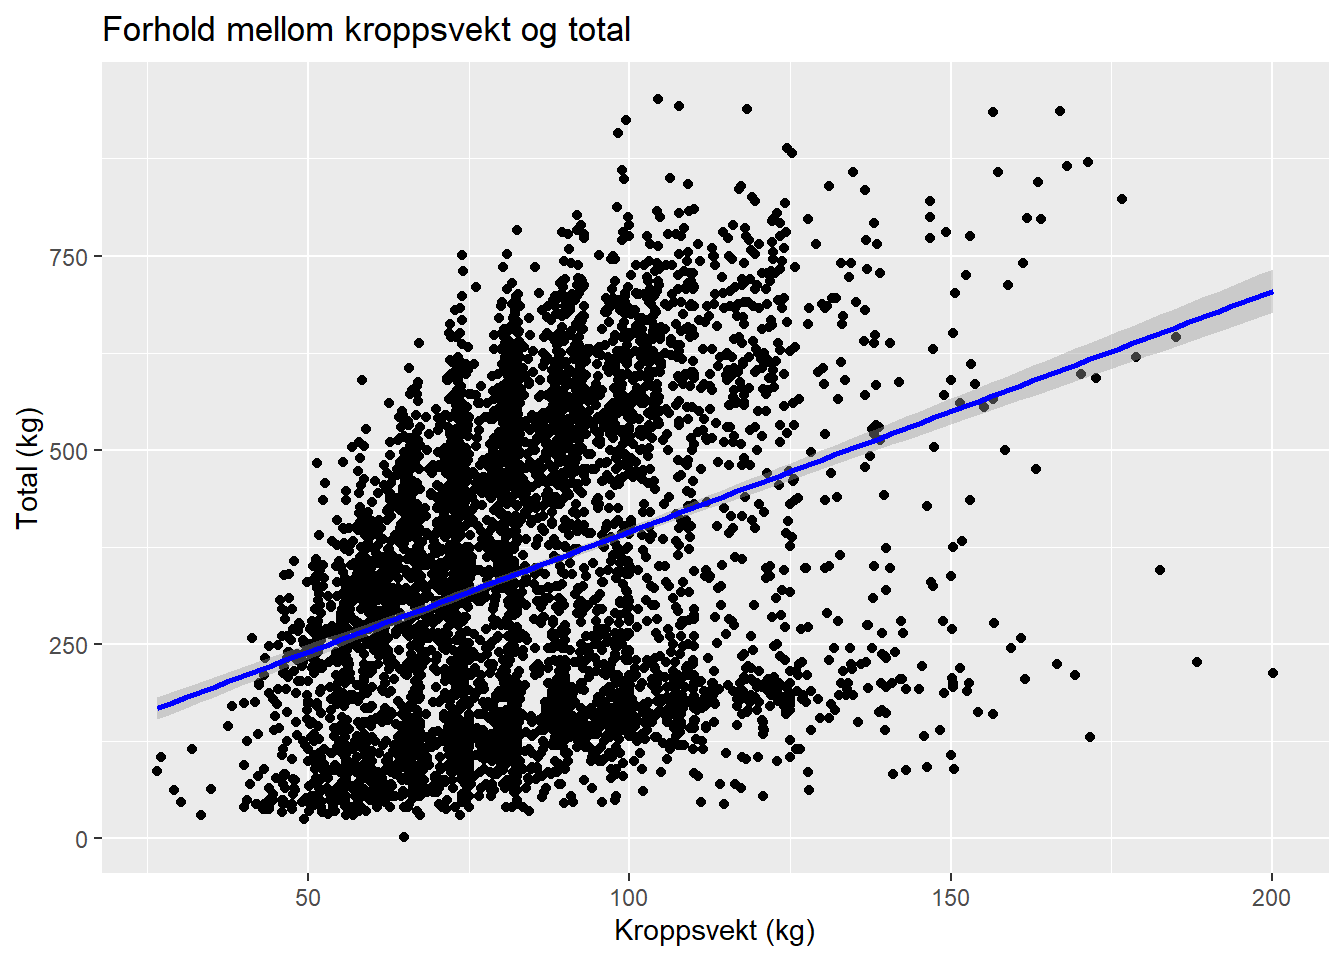
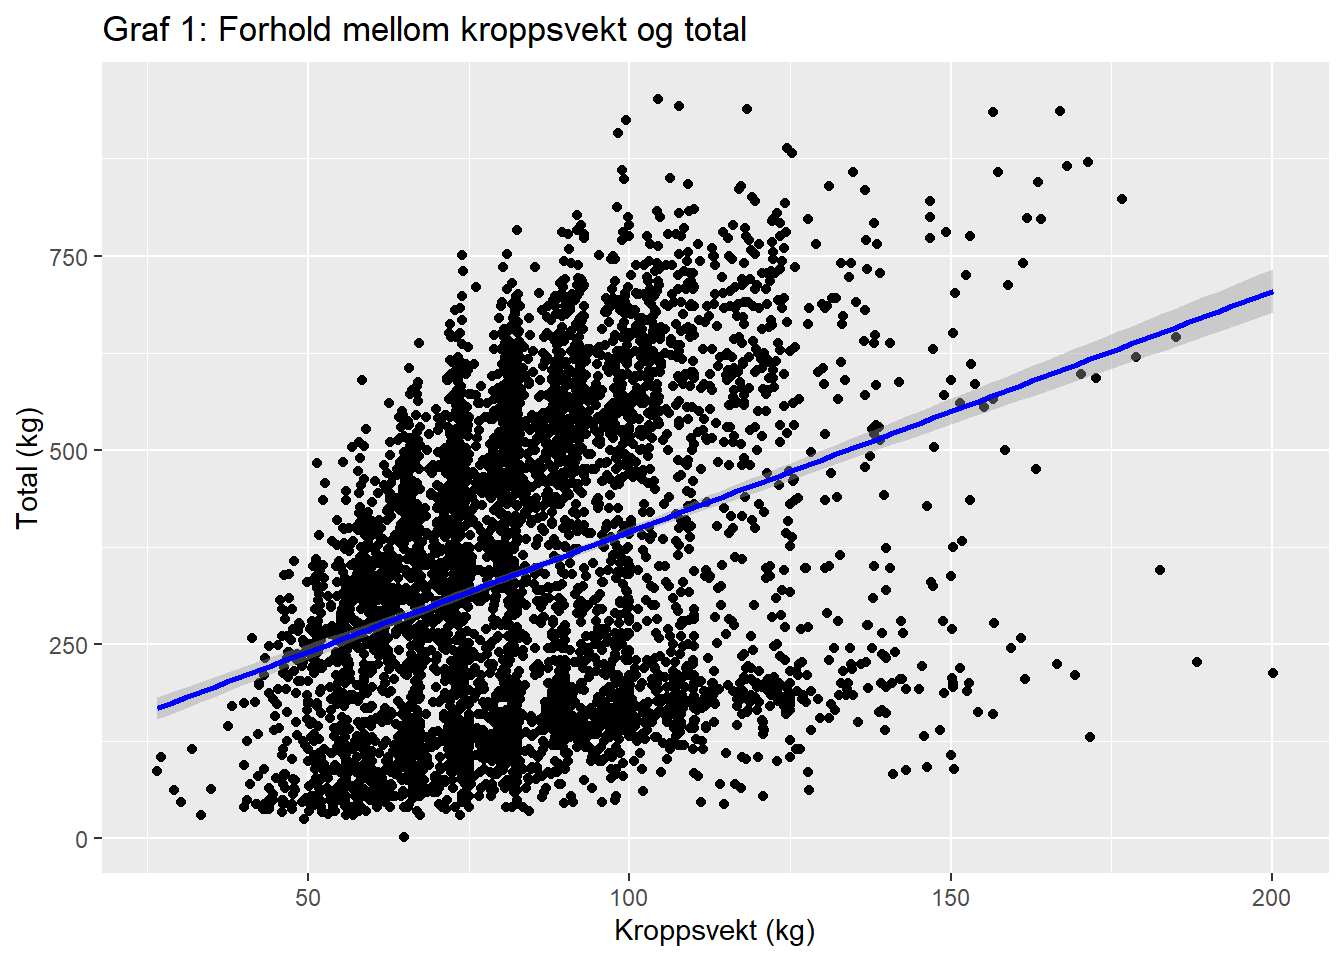
Mange endringer i del 2 og 3

Changed region(s): [[0.0625, 0.0, 0.5625, 0.0625]]

diff --git a/Arbeidskrav3.html b/Arbeidskrav3.html
@@ -85,22 +85,29 @@ pre > code.sourceCode > span > a:first-child::before { text-decoration: underlin
    
   <ul>
   <li><a href="#beskrive-sammenhenger" id="toc-beskrive-sammenhenger" class="nav-link active" data-scroll-target="#beskrive-sammenhenger"><span class="header-section-number">1</span> Beskrive sammenhenger</a>
-  <ul>
+  <ul class="collapse">
   <li><a href="#sammenhengen-mellom-to-kontinuerlige-variabler-total-og-kroppsvekt" id="toc-sammenhengen-mellom-to-kontinuerlige-variabler-total-og-kroppsvekt" class="nav-link" data-scroll-target="#sammenhengen-mellom-to-kontinuerlige-variabler-total-og-kroppsvekt"><span class="header-section-number">1.1</span> Sammenhengen mellom to kontinuerlige variabler (Total og kroppsvekt)</a></li>
   <li><a href="#sammenhengen-mellom-total-kjønn-og-alder" id="toc-sammenhengen-mellom-total-kjønn-og-alder" class="nav-link" data-scroll-target="#sammenhengen-mellom-total-kjønn-og-alder"><span class="header-section-number">1.2</span> Sammenhengen mellom total, kjønn og alder</a>
   <ul class="collapse">
   <li><a href="#tolkning-av-regresjonsmodellen" id="toc-tolkning-av-regresjonsmodellen" class="nav-link" data-scroll-target="#tolkning-av-regresjonsmodellen"><span class="header-section-number">1.2.1</span> Tolkning av regresjonsmodellen</a></li>
-  <li><a href="#figur-1-kurvilineær-graf-av-sammenhengen-mellom-total-kjønn-og-alder" id="toc-figur-1-kurvilineær-graf-av-sammenhengen-mellom-total-kjønn-og-alder" class="nav-link" data-scroll-target="#figur-1-kurvilineær-graf-av-sammenhengen-mellom-total-kjønn-og-alder"><span class="header-section-number">1.2.2</span> Figur 1: Kurvilineær graf av sammenhengen mellom total, kjønn og alder</a></li>
+  <li><a href="#graf-2-kurvilineær-graf-av-sammenhengen-mellom-total-kjønn-og-alder" id="toc-graf-2-kurvilineær-graf-av-sammenhengen-mellom-total-kjønn-og-alder" class="nav-link" data-scroll-target="#graf-2-kurvilineær-graf-av-sammenhengen-mellom-total-kjønn-og-alder"><span class="header-section-number">1.2.2</span> Graf 2: Kurvilineær graf av sammenhengen mellom total, kjønn og alder</a></li>
   </ul></li>
   <li><a href="#hvordan-kan-vi-tolke-estimatet-i-en-generalisert-lineær-modell-hvor-den-avhengige-variabelen-er-enten-1-eller-0-hva-betyr-link-function-i-denne-sammenhengen-og-hva-gjør-den" id="toc-hvordan-kan-vi-tolke-estimatet-i-en-generalisert-lineær-modell-hvor-den-avhengige-variabelen-er-enten-1-eller-0-hva-betyr-link-function-i-denne-sammenhengen-og-hva-gjør-den" class="nav-link" data-scroll-target="#hvordan-kan-vi-tolke-estimatet-i-en-generalisert-lineær-modell-hvor-den-avhengige-variabelen-er-enten-1-eller-0-hva-betyr-link-function-i-denne-sammenhengen-og-hva-gjør-den"><span class="header-section-number">1.3</span> Hvordan kan vi tolke estimatet i en generalisert lineær modell hvor den avhengige variabelen er enten 1 eller 0? Hva betyr «link-function» i denne sammenhengen og hva gjør den?</a></li>
   </ul></li>
   <li><a href="#predikere-observasjoner" id="toc-predikere-observasjoner" class="nav-link" data-scroll-target="#predikere-observasjoner"><span class="header-section-number">2</span> Predikere observasjoner</a>
-  <ul>
+  <ul class="collapse">
   <li><a href="#bruk-data-fra-datasettet-strengthvolume-og-lag-en-prediksjonsmodell-for-legext-basert-på-legpress." id="toc-bruk-data-fra-datasettet-strengthvolume-og-lag-en-prediksjonsmodell-for-legext-basert-på-legpress." class="nav-link" data-scroll-target="#bruk-data-fra-datasettet-strengthvolume-og-lag-en-prediksjonsmodell-for-legext-basert-på-legpress."><span class="header-section-number">2.0.1</span> Bruk data fra datasettet strengthvolume og lag en prediksjonsmodell for legext basert på legpress.</a></li>
   <li><a href="#bruk-data-fra-et-tidspunkt-time-og-et-treningsvolum-sets" id="toc-bruk-data-fra-et-tidspunkt-time-og-et-treningsvolum-sets" class="nav-link" data-scroll-target="#bruk-data-fra-et-tidspunkt-time-og-et-treningsvolum-sets"><span class="header-section-number">2.1</span> Bruk data fra et tidspunkt (time) og et treningsvolum (sets)</a>
   <ul class="collapse">
   <li><a href="#hvordan-spiller-kjønn-sex-inn-på-prediksjonen-hvordan-kan-du-bruke-kjønn-for-å-si-noe-om-prediksjoner-innad-kjønn-og-i-gjennomsnitt-i-begge-kjønn" id="toc-hvordan-spiller-kjønn-sex-inn-på-prediksjonen-hvordan-kan-du-bruke-kjønn-for-å-si-noe-om-prediksjoner-innad-kjønn-og-i-gjennomsnitt-i-begge-kjønn" class="nav-link" data-scroll-target="#hvordan-spiller-kjønn-sex-inn-på-prediksjonen-hvordan-kan-du-bruke-kjønn-for-å-si-noe-om-prediksjoner-innad-kjønn-og-i-gjennomsnitt-i-begge-kjønn"><span class="header-section-number">2.1.1</span> Hvordan spiller kjønn (sex) inn på prediksjonen, hvordan kan du bruke kjønn for å si noe om prediksjoner innad kjønn og i gjennomsnitt i begge kjønn?</a></li>
   <li><a href="#modellen-gir-deg-et-estimat-men-for-en-gitt-verdi-på-legpress-hva-sier-modellen-om-i-hvilket-område-vi-kan-forvente-å-finne-nye-observasjoner" id="toc-modellen-gir-deg-et-estimat-men-for-en-gitt-verdi-på-legpress-hva-sier-modellen-om-i-hvilket-område-vi-kan-forvente-å-finne-nye-observasjoner" class="nav-link" data-scroll-target="#modellen-gir-deg-et-estimat-men-for-en-gitt-verdi-på-legpress-hva-sier-modellen-om-i-hvilket-område-vi-kan-forvente-å-finne-nye-observasjoner"><span class="header-section-number">2.1.2</span> Modellen gir deg et estimat, men for en gitt verdi på legpress, hva sier modellen om i hvilket område vi kan forvente å finne nye observasjoner?</a></li>
+  </ul></li>
+  </ul></li>
+  <li><a href="#trekke-slutninger" id="toc-trekke-slutninger" class="nav-link" data-scroll-target="#trekke-slutninger"><span class="header-section-number">3</span> Trekke slutninger</a>
+  <ul class="collapse">
+  <li><a href="#bruk-datasettet-strengtvolume-og-formuler-en-modell-som-gir-oss-et-estimat-på-forskjell-i-gjennomsnitt-mellom-sets-i-forandring-fra-tidspunkt-pre-til-tidspunkt-post-i-legext.-gi-begrunnelse-til-valg-av-modell-og-håndtering-av-data." id="toc-bruk-datasettet-strengtvolume-og-formuler-en-modell-som-gir-oss-et-estimat-på-forskjell-i-gjennomsnitt-mellom-sets-i-forandring-fra-tidspunkt-pre-til-tidspunkt-post-i-legext.-gi-begrunnelse-til-valg-av-modell-og-håndtering-av-data." class="nav-link" data-scroll-target="#bruk-datasettet-strengtvolume-og-formuler-en-modell-som-gir-oss-et-estimat-på-forskjell-i-gjennomsnitt-mellom-sets-i-forandring-fra-tidspunkt-pre-til-tidspunkt-post-i-legext.-gi-begrunnelse-til-valg-av-modell-og-håndtering-av-data."><span class="header-section-number">3.1</span> Bruk datasettet strengtvolume og formuler en modell som gir oss et estimat på forskjell i gjennomsnitt mellom sets i forandring fra tidspunkt pre til tidspunkt post i legext. Gi begrunnelse til valg av modell og håndtering av data.</a>
+  <ul class="collapse">
+  <li><a href="#hvordan-kan-vi-bruke-regresjonsmodellen-for-å-si-noe-om-populasjonen-som-dataene-kommer-fra" id="toc-hvordan-kan-vi-bruke-regresjonsmodellen-for-å-si-noe-om-populasjonen-som-dataene-kommer-fra" class="nav-link" data-scroll-target="#hvordan-kan-vi-bruke-regresjonsmodellen-for-å-si-noe-om-populasjonen-som-dataene-kommer-fra"><span class="header-section-number">3.1.1</span> Hvordan kan vi bruke regresjonsmodellen for å si noe om populasjonen som dataene kommer fra?</a></li>
   </ul></li>
   </ul></li>
   </ul>
@@ -203,7 +210,7 @@ F-statistic: 649.2 on 1 and 4998 DF,  p-value: &lt; 2.2e-16</code></pre>
 <div class="code-copy-outer-scaffold"><div class="sourceCode cell-code" id="cb5"><pre class="sourceCode r code-with-copy"><code class="sourceCode r"><span id="cb5-1"><a href="#cb5-1" aria-hidden="true" tabindex="-1"></a><span class="fu">ggplot</span>(sample.powerlifting, <span class="fu">aes</span>(<span class="at">x =</span> BodyweightKg, <span class="at">y =</span> TotalKg)) <span class="sc">+</span></span>
 <span id="cb5-2"><a href="#cb5-2" aria-hidden="true" tabindex="-1"></a>  <span class="fu">geom_point</span>() <span class="sc">+</span></span>
 <span id="cb5-3"><a href="#cb5-3" aria-hidden="true" tabindex="-1"></a>  <span class="fu">geom_smooth</span>(<span class="at">method =</span> <span class="st">"lm"</span>, <span class="at">color =</span> <span class="st">"blue"</span>) <span class="sc">+</span></span>
-<span id="cb5-4"><a href="#cb5-4" aria-hidden="true" tabindex="-1"></a>  <span class="fu">labs</span>(<span class="at">title =</span> <span class="st">"Forhold mellom kroppsvekt og total"</span>,</span>
+<span id="cb5-4"><a href="#cb5-4" aria-hidden="true" tabindex="-1"></a>  <span class="fu">labs</span>(<span class="at">title =</span> <span class="st">"Graf 1: Forhold mellom kroppsvekt og total"</span>,</span>
 <span id="cb5-5"><a href="#cb5-5" aria-hidden="true" tabindex="-1"></a>       <span class="at">x =</span> <span class="st">"Kroppsvekt (kg)"</span>,</span>
 <span id="cb5-6"><a href="#cb5-6" aria-hidden="true" tabindex="-1"></a>       <span class="at">y =</span> <span class="st">"Total (kg)"</span>)</span></code></pre></div><button title="Copy to Clipboard" class="code-copy-button"><i class="bi"></i></button></div>
 <div class="cell-output cell-output-stderr">
@@ -309,9 +316,9 @@ F-statistic: 649.2 on 1 and 4998 DF,  p-value: &lt; 2.2e-16</code></pre>
 <p>Vi ser fra modellen at skjæringspunktet er 124.5 kg, som betyr at gjennomsnittlig kvinne vil ha en total på 124.5 kg ved en alder av 0. Dette er det matematiske utgangspunktet til modellen, og i praksis ikke nyttig og unøyaktig siden datasettet ikke inneholder data på så unge utøvere. Vi ser også at menn i gjennomsnitt løfter 143.8kg mer enn kvinner, og at for hver økning i alder med antall år, vil vi få en økning på 9.6kg på totalen. Koeffisienten for Age^2 (-0.15) viser at det er et ikke lineært forhold mellom alder og maksimalstyrke. Etter en viss alder, så vil styrken avta.</p>
 <p>Alle koeffisientene har en p-verdi på &lt;0.001, som betyr at både kjønn og alder har en statistisk signifikant effekt på styrke. Modellen kan forklare omtrentlig 14% av variasjonen i total vekt løftet (Justert R-squared = 0.14), som tyder på at andre faktorer enn kjønn og alder spiller inn på maksimalstyrke.</p>
 </section>
-<section id="figur-1-kurvilineær-graf-av-sammenhengen-mellom-total-kjønn-og-alder" class="level3" data-number="1.2.2">
-<h3 data-number="1.2.2" class="anchored" data-anchor-id="figur-1-kurvilineær-graf-av-sammenhengen-mellom-total-kjønn-og-alder"><span class="header-section-number">1.2.2</span> Figur 1: Kurvilineær graf av sammenhengen mellom total, kjønn og alder</h3>
-<p><em>Figur 1: Figuren viser hvordan totalen varierer med alder for menn og kvinner, og når en topp rundt en alder av 30 -35 år, før den gradvis avtar.</em></p>
+<section id="graf-2-kurvilineær-graf-av-sammenhengen-mellom-total-kjønn-og-alder" class="level3" data-number="1.2.2">
+<h3 data-number="1.2.2" class="anchored" data-anchor-id="graf-2-kurvilineær-graf-av-sammenhengen-mellom-total-kjønn-og-alder"><span class="header-section-number">1.2.2</span> Graf 2: Kurvilineær graf av sammenhengen mellom total, kjønn og alder</h3>
+<p><em>Graf 2: Figuren viser hvordan totalen varierer med alder for menn og kvinner, og når en topp rundt en alder av 30 -35 år, før den gradvis avtar.</em></p>
 <div class="cell">
 <div class="cell-output-display">
 <div>
@@ -404,32 +411,9 @@ F-statistic: 649.2 on 1 and 4998 DF,  p-value: &lt; 2.2e-16</code></pre>
 </section>
 <section id="bruk-data-fra-et-tidspunkt-time-og-et-treningsvolum-sets" class="level2" data-number="2.1">
 <h2 data-number="2.1" class="anchored" data-anchor-id="bruk-data-fra-et-tidspunkt-time-og-et-treningsvolum-sets"><span class="header-section-number">2.1</span> Bruk data fra et tidspunkt (time) og et treningsvolum (sets)</h2>
-<div class="cell">
-<div class="code-copy-outer-scaffold"><div class="sourceCode cell-code" id="cb14"><pre class="sourceCode r code-with-copy"><code class="sourceCode r"><span id="cb14-1"><a href="#cb14-1" aria-hidden="true" tabindex="-1"></a>Legext_modell <span class="sc">|&gt;</span></span>
-<span id="cb14-2"><a href="#cb14-2" aria-hidden="true" tabindex="-1"></a>  <span class="fu">filter</span>(</span>
-<span id="cb14-3"><a href="#cb14-3" aria-hidden="true" tabindex="-1"></a>    time <span class="sc">==</span> <span class="st">"session1"</span>,</span>
-<span id="cb14-4"><a href="#cb14-4" aria-hidden="true" tabindex="-1"></a>    sets <span class="sc">==</span> <span class="st">"single"</span></span>
-<span id="cb14-5"><a href="#cb14-5" aria-hidden="true" tabindex="-1"></a>  )</span></code></pre></div><button title="Copy to Clipboard" class="code-copy-button"><i class="bi"></i></button></div>
-<div class="cell-output cell-output-stdout">
-<pre><code># A tibble: 39 × 8
-   participant sex    include time     sets   leg   legpress legext
-   &lt;chr&gt;       &lt;chr&gt;  &lt;chr&gt;   &lt;chr&gt;    &lt;chr&gt;  &lt;chr&gt;    &lt;dbl&gt;  &lt;dbl&gt;
- 1 FP13        male   incl    session1 single R        125       55
- 2 FP1         male   excl    session1 single R        175       65
- 3 FP16        female incl    session1 single R         95       35
- 4 FP17        male   incl    session1 single L        295       75
- 5 FP12        female incl    session1 single L        225       75
- 6 FP11        male   incl    session1 single L        180       65
- 7 FP9         male   incl    session1 single L        165       80
- 8 FP14        female incl    session1 single L         87.5     50
- 9 FP4         female excl    session1 single L        170       45
-10 FP6         female incl    session1 single R        110       40
-# ℹ 29 more rows</code></pre>
-</div>
-</div>
 <section id="hvordan-spiller-kjønn-sex-inn-på-prediksjonen-hvordan-kan-du-bruke-kjønn-for-å-si-noe-om-prediksjoner-innad-kjønn-og-i-gjennomsnitt-i-begge-kjønn" class="level3" data-number="2.1.1">
 <h3 data-number="2.1.1" class="anchored" data-anchor-id="hvordan-spiller-kjønn-sex-inn-på-prediksjonen-hvordan-kan-du-bruke-kjønn-for-å-si-noe-om-prediksjoner-innad-kjønn-og-i-gjennomsnitt-i-begge-kjønn"><span class="header-section-number">2.1.1</span> Hvordan spiller kjønn (sex) inn på prediksjonen, hvordan kan du bruke kjønn for å si noe om prediksjoner innad kjønn og i gjennomsnitt i begge kjønn?</h3>
-<p>Vi trenger to modeller for å svare på dette spørsmålet. Den første modellen, “ext.m2” har ingen interaksjonseffekt mellom kjønn og legpress på legextension, mens “ext.m3” har en interaksjonseffekt mellom kjønn og legpress på legextension. La oss se hva modellen viser oss, og hvilken som er mest egnet.</p>
+<p>Vi trenger to modeller for å svare på dette spørsmålet. Den første modellen, “ext.m2” har ingen interaksjonseffekt mellom kjønn og legpress på legextension, mens “ext.m3” har en interaksjonseffekt mellom kjønn og legpress på legextension. La oss se hva modellene viser oss, og hvilken som er mest egnet.</p>
 <div class="cell">
 <div class="cell-output cell-output-stdout">
 <pre><code>       1 
@@ -485,7 +469,7 @@ F-statistic: 649.2 on 1 and 4998 DF,  p-value: &lt; 2.2e-16</code></pre>
 </table>
 </div>
 </div>
-<p>I tabell 1 ser vi at m2 og m3 viser tydelige forskjeller i styrke i legextension mellom menn og kvinner. Dette er forventet, ettersom menn er i gjennomsnitt sterkere enn kvinner. Likevel, ser det ut til at m3 og m2 gir nesten nøyaktig like prediksjoner, som betyr at mest sannsynlig er ikke interaksjonseffekten særlig viktig. Vi kan dermed si at m2 er tilstrekkelig for våre behov. I modell m1,som ikke inkluderer kjønn, ser vi at vi får et gjennomsnitt som ligger mellom verdiene til menn og kvinner.</p>
+<p>I tabell 1 ser vi at m2 og m3 viser tydelige forskjeller i styrke i legextension mellom menn og kvinner. Dette er forventet, ettersom menn er i gjennomsnitt sterkere enn kvinner. Likevel, ser det ut til at m3 og m2 gir nesten nøyaktig like prediksjoner, som betyr at mest sannsynlig er ikke interaksjonseffekten særlig viktig. Vi kan dermed si at m2 er tilstrekkelig for våre behov. I modell m1, som ikke inkluderer kjønn, ser vi at vi får et gjennomsnitt som ligger mellom verdiene til menn og kvinner.</p>
 </section>
 <section id="modellen-gir-deg-et-estimat-men-for-en-gitt-verdi-på-legpress-hva-sier-modellen-om-i-hvilket-område-vi-kan-forvente-å-finne-nye-observasjoner" class="level3" data-number="2.1.2">
 <h3 data-number="2.1.2" class="anchored" data-anchor-id="modellen-gir-deg-et-estimat-men-for-en-gitt-verdi-på-legpress-hva-sier-modellen-om-i-hvilket-område-vi-kan-forvente-å-finne-nye-observasjoner"><span class="header-section-number">2.1.2</span> Modellen gir deg et estimat, men for en gitt verdi på legpress, hva sier modellen om i hvilket område vi kan forvente å finne nye observasjoner?</h3>
@@ -518,6 +502,33 @@ F-statistic: 649.2 on 1 and 4998 DF,  p-value: &lt; 2.2e-16</code></pre>
 </table>
 </div>
 </div>
+<p>Prediksjonsintervallet vårt forteller oss hvilke verdier vi kan forvente for legextension når en deltaker klarer 150 kg i legpress, både for kvinnelig og mannlig kjønn.</p>
+<p>Hvis en kvinne tar 150kg i legpress, forventer vi at nye kvinner har en 95% sannsynlighet for å få en legextension verdi mellom 27 og 75kg. Modellen viser oss en gjennomsnittlig prediksjon på 51kg. Hvis en mann tar 150 kg i legpress, forventer vi nye menn har en 95% sannsynlighet for å få en legextension verdi mellom 43 og 91 kg. Modellen viser oss en gjennomsnittlig prediksjon på 68 kg.</p>
+<p>Prediksjonsintervaller viser oss at det er et stort spenn av mulige verdier for legextension når legpress er 150kg, for begge kjønn. Dette kan tyde på store individuelle forskjeller, selv ved samme legpress verdier.</p>
+</section>
+</section>
+</section>
+<section id="trekke-slutninger" class="level1" data-number="3">
+<h1 data-number="3"><span class="header-section-number">3</span> Trekke slutninger</h1>
+<section id="bruk-datasettet-strengtvolume-og-formuler-en-modell-som-gir-oss-et-estimat-på-forskjell-i-gjennomsnitt-mellom-sets-i-forandring-fra-tidspunkt-pre-til-tidspunkt-post-i-legext.-gi-begrunnelse-til-valg-av-modell-og-håndtering-av-data." class="level2" data-number="3.1">
+<h2 data-number="3.1" class="anchored" data-anchor-id="bruk-datasettet-strengtvolume-og-formuler-en-modell-som-gir-oss-et-estimat-på-forskjell-i-gjennomsnitt-mellom-sets-i-forandring-fra-tidspunkt-pre-til-tidspunkt-post-i-legext.-gi-begrunnelse-til-valg-av-modell-og-håndtering-av-data."><span class="header-section-number">3.1</span> Bruk datasettet strengtvolume og formuler en modell som gir oss et estimat på forskjell i gjennomsnitt mellom sets i forandring fra tidspunkt pre til tidspunkt post i legext. Gi begrunnelse til valg av modell og håndtering av data.</h2>
+<p>Trinnvis beskrivelse av oppgaveløsning:</p>
+<p>Vi løser oppgaven i JASP. · Vi begynte å redigere dataen og gi tallverdier. Først inkluderte vi kun “pre” og “post” i “time”, samt ga de en tallverdi 1 – 2. i “exercise” fjernet vi alle øvelser unntatt legext. · Videre gikk vi inn på linear mixed model, satte “load” som dependent variable, “sets” og “time” i fixed effects variables, og “participants” i random effects grouping factors. · Så satte vi inn “sets” og “time”, og “sets x time” inn som ulike model components · I random components valgte vi å se på intercept . · I options huket vi av model summary og fixed effects estimates. · I plots for å få selve modellen satte vi inn «time» i den horisontale aksen, «sets» i seperate lines for å skille mellom pre og post, og «participants» inn i background data show. · I tillegg førte vi inn i plots for å illustrere med en graf.</p>
+<div class="quarto-figure quarto-figure-center">
+<figure class="figure">
+<p><img src="Figurer/Mixed_effect.png" class="img-fluid figure-img"></p>
+<figcaption>Tabell 3: Mixed effect modellen</figcaption>
+</figure>
+</div>
+<div class="quarto-figure quarto-figure-center">
+<figure class="figure">
+<p><img src="Figurer/Graf.png" class="img-fluid figure-img" style="width:50.0%"></p>
+<figcaption>Graf 3: Linjediagram av mixed-effect modellen. Endring i load fra pre- til post</figcaption>
+</figure>
+</div>
+<section id="hvordan-kan-vi-bruke-regresjonsmodellen-for-å-si-noe-om-populasjonen-som-dataene-kommer-fra" class="level3" data-number="3.1.1">
+<h3 data-number="3.1.1" class="anchored" data-anchor-id="hvordan-kan-vi-bruke-regresjonsmodellen-for-å-si-noe-om-populasjonen-som-dataene-kommer-fra"><span class="header-section-number">3.1.1</span> Hvordan kan vi bruke regresjonsmodellen for å si noe om populasjonen som dataene kommer fra?</h3>
+<p>Vi kan bruke regresjonsmodellen for å si noe om at det er en klar tidseffekt fra pre til post tester. Observasjonene fra modellen viser oss også forskjellen mellom økning i single og multiple sets fra pre til post på modellen ser vi at økningen er større i flere sets. Forskjellen mellom single og multiple sets på baseline er ubetydelig (p=0.809).</p>
 </section>
 </section>
 </section>
